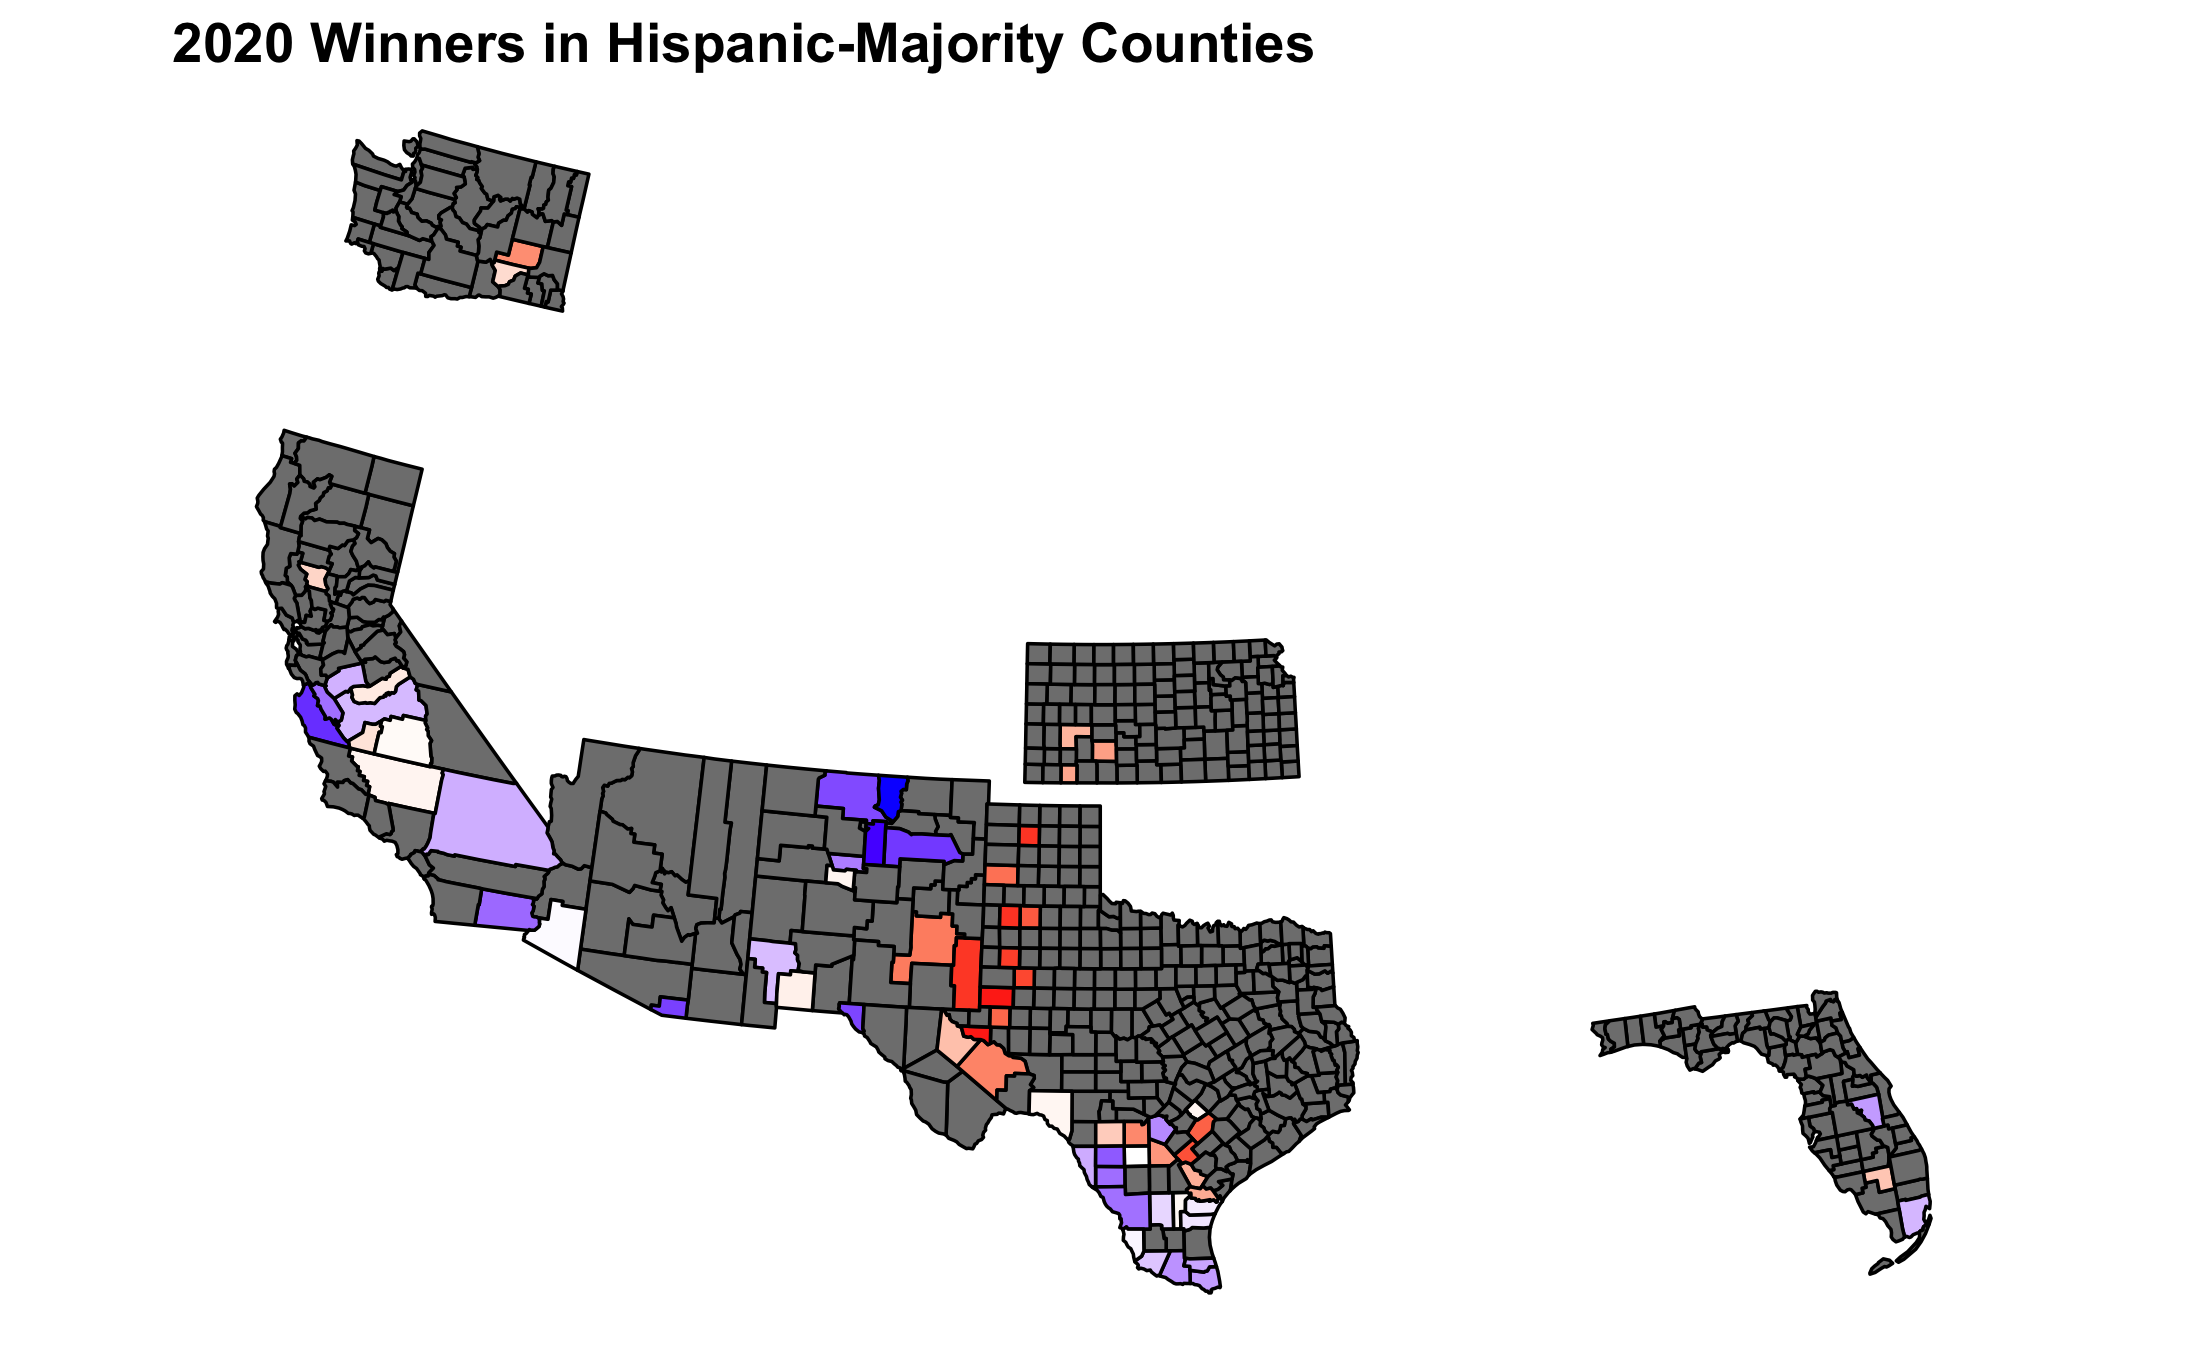
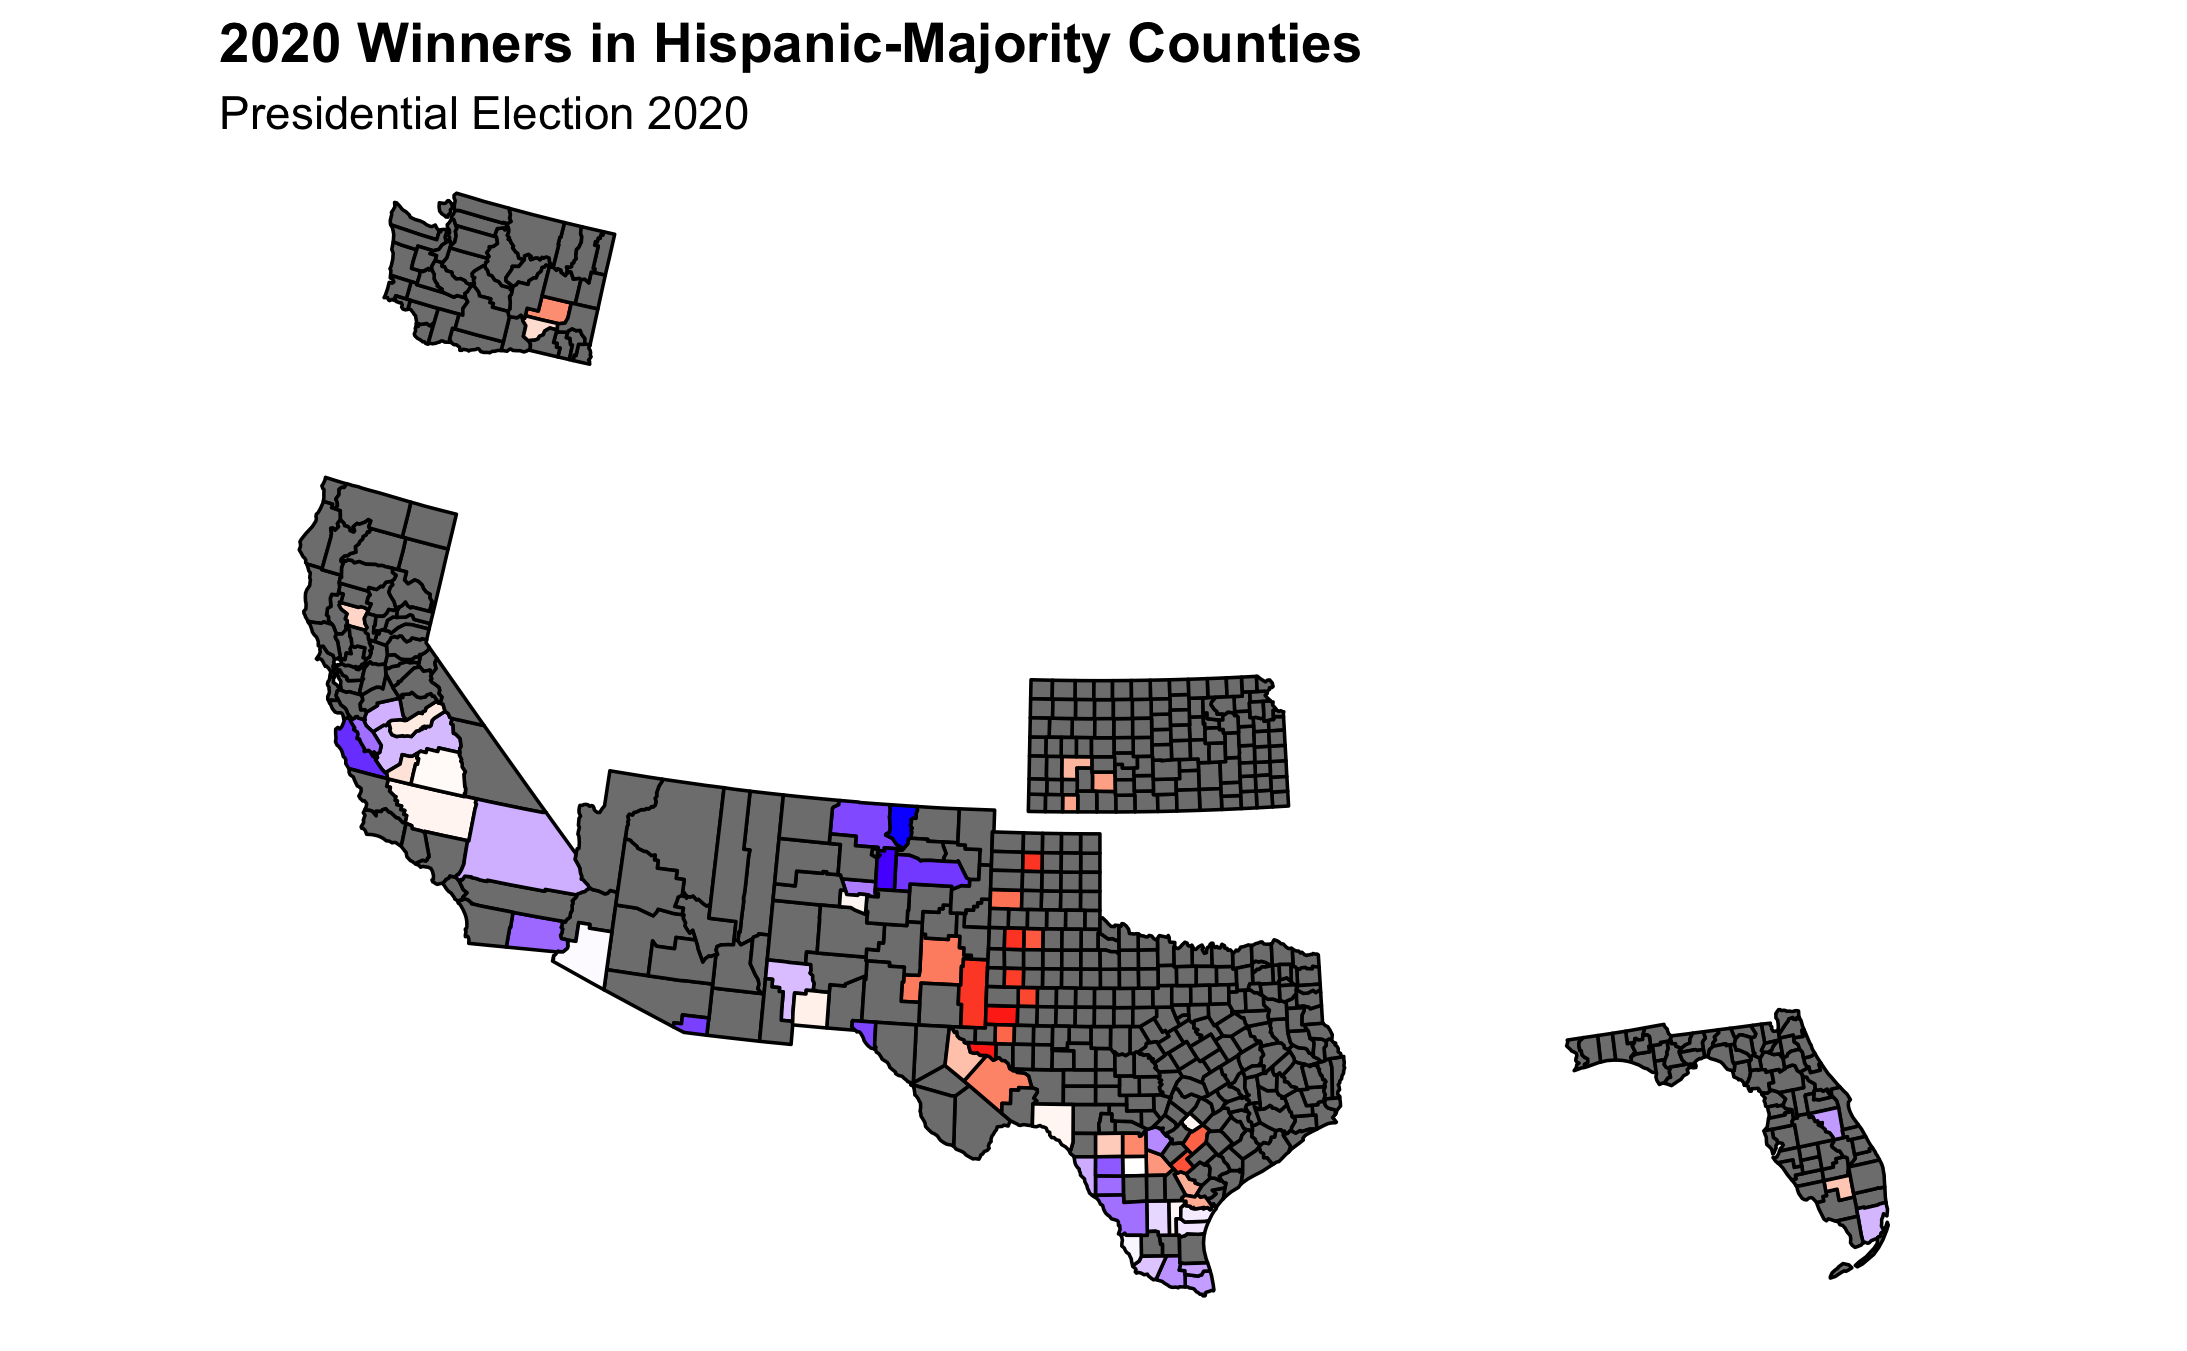
blog

Changed region(s): [[0.0933, 0.3109, 0.6219, 0.9637], [0.0622, 0.0, 0.6219, 0.2798], [0.7151, 0.715, 0.9017, 0.9637]]

diff --git a/posts/blog_10.md b/posts/blog_10.md
@@ -40,28 +40,45 @@ This map, in no way, shows a red sweep for Trump in Hispanic communities. It doe
 But does this map indicate huge loses for Biden? Interestingly, Florida, which was touted as a huge failure for Democrats, still went blue in two out of three Hispanic-majority counties. While this may detract from the narrative of a Democratic failure, it does not say much about the change in Democratic vote share since 2016. 
 
 ## Vote Shares are Dwindling
-While Democrats did not necessarily lose stronghold Hispanic counties, like Miami-Dade, they did *significantly shrink their margins of victory* since 2016. The map below looks at the magnitude of these contractions: 
+Overall, there was a positive relationship between the percentage of Hispanic citizens in a Hispanic-majority county and the 2020 Democratic vote share. This lines up with Biden's support among two thirds of Hispanic voters. 
+
+![](../images/10_county_rel.png)
+
+Nevertheless, Trump's hold on ]one third (32%)](https://www.theatlantic.com/ideas/archive/2020/11/how-trump-grew-his-support-among-latinos/617033/) of Hispanic voters is an improvement from 2016, where he only gained 28% support, and signals a flaw in the Dems' outreach and messaging toward Hispanic voters across different communities. In Hispanic-majority counties, Democrats, on average, lost *almost ten points* in their victory margins since 2016: 
+
+![](../images/10_hist_d_change.png)
+
+While Democrats did not necessarily lose stronghold Hispanic counties, like Miami-Dade, they did *significantly shrink their margins of victory.* This map geographically represents these contractions: 
 
 ![](../images/m1.png)
 
 At first glance, Democrats lost many voters in the Rio Grande Valley in Texas as well as in south Florida. They gained some voters in California and, more subtly, in Kansas and Washington. Arizona Hispanic-majority counties saw less Democratic support while New Mexico was a mixed bag.
 
-Let's take a closer look at some of these states. 
+Let's take a closer look at some of the states that experiences this loss in Democratic votes. 
 
 ### Texas
+
 ![](../images/10_texas_comp.png.png)
 
-Democrats saw steep contractions in their victory margins along the southern border. Though most of these counties still went for Biden (see my first figure), the shrinking margins certainly carry a message, espcically in such a notable geographic area. These border counties are the most intimately linked to Trump's "Wall" and immigration agenda. Their shift in voting may mean that Trump's "law and order" rhetoric and his emphasis on secure border resonates with the Hispanic residents in those communities.
+Democrats saw steep contractions in their victory margins along the southern border. Though most of these counties still went for Biden (see my first figure), the shrinking margins certainly carry a message, especially in such a notable geographic area. These border counties are the most intimately linked to Trump's "Wall" and immigration agenda. Their shift in voting may mean that Trump's "law and order" rhetoric and his emphasis on secure border resonates with the Hispanic residents in those communities.
 
 ### Florida
-Florida seems to be at the center of the media narrative surrounding the Dems' failure among Hispanics. More specifically, Miami-Dade county, which saw a sizeable contraction in its Democratic support since 2020, has been drawing plenty of attention due to the demographic makeup of its Hispanic community. Miami-Dade and many other southern Floridian counties have large Cuban, Venezuelan, and Nicaraguan populations. The Venezuelan demographic, in particular, has continued to increase in 2016 as a result of the instability and mismanagement of Maduro's socialist regime. As the daughter of a Venezuelan immigrant, I have seen many of my family members and friends reallocate from Caracas to the Miami area in the past few years. 
+
+![](../images/10_florida_comp.png)
+
+Florida seems to be at the center of the media narrative surrounding the Dems' failure among Hispanics. More specifically, Miami-Dade county, which saw a sizable contraction in its Democratic support since 2020, has been drawing plenty of attention due to the demographic makeup of its Hispanic community. Miami-Dade and many other southern Floridian counties have large Cuban, Venezuelan, and Nicaraguan populations. The Venezuelan demographic, in particular, has continued to increase in 2016 as a result of the instability and mismanagement of Maduro's socialist regime. As the daughter of a Venezuelan immigrant, I have seen many of my family members and friends reallocate from Caracas to the Miami area in the past few years. 
 
 These specific communities have either recently (in the case of Venezuelans and Nicaraguans) or historically (in the case of Cubans) fled from socialist dictatorships in their ancestral counties. Trump's ability to brand Democrats as socialists may very well have resonated with these voters, compelling them to swap their previously blue votes for Trump. 
 
 Moreover, the [Trump campaign](https://www.nbcnews.com/news/latino/trump-cultivated-latino-vote-florida-it-paid-n1246226) had rallies and targeted ground presence in this key swing states, specifically catering to Hispanic voters. For instance, the Latinos for Trump coalition started in Florida as early as June 2019. Biden's campaigning in the state was less targeted and concentrated later in the election cycle. 
 
-![](../images/10_florida_comp.png)
+### Arizona
 
-Why did they do better in Arizona?
-invested more in ground game and voter registration efforts, more Latino community outreach
+![](../images/10_arizona_comp.png)
+
+Arizona, like Florida, had blue counties lose some of their vote share to Trump though they remained blue. As border counties, perhaps these were groups of voters that likes Trump's "law and order" and secure border agenda. 
+
+It is worth noting that Arizona, which unlike Florida, remained blue and had [exceptional ground outreach](https://www.nbcnews.com/news/latino/years-making-established-latino-groups-helped-biden-arizona-nevada-n1246864) by the Biden campaign among Hispanic voters in relation to other states with large Hispanic populations. There were also established outreach networks already in place in Arizona as well as Nevada that mobilized in support of the Biden campaign. 
+
+
 
